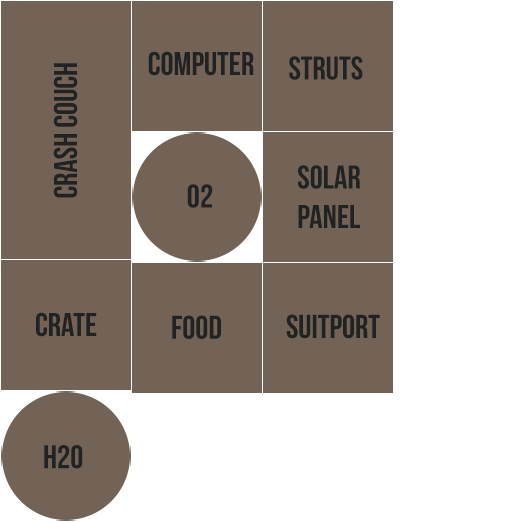
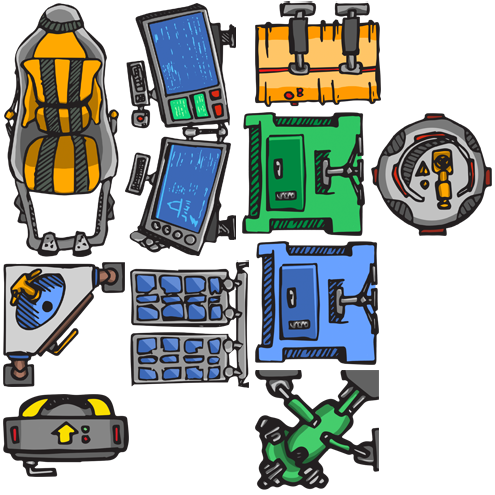
Lander update with new sprites

diff --git a/Classes/Map.cpp b/Classes/Map.cpp
@@ -308,10 +308,10 @@ Map::Map() {
     this->addObject(new MapObject(suitPort, lander_x + 4, lander_y + 7, orientNormal));
     
     // Landing struts
-    this->addObject(new MapObject(landingStrut, lander_x + 1, lander_y + 6, orient270));
-    this->addObject(new MapObject(landingStrut, lander_x + 6, lander_y + 6, orientNormal));
-    this->addObject(new MapObject(landingStrut, lander_x + 1, lander_y + 1, orient180));
-    this->addObject(new MapObject(landingStrut, lander_x + 6, lander_y + 1, orient90));
+    this->addObject(new MapObject(landingStrut, lander_x + 1, lander_y + 6, orient180));
+    this->addObject(new MapObject(landingStrut, lander_x + 6, lander_y + 6, orient270));
+    this->addObject(new MapObject(landingStrut, lander_x + 1, lander_y + 1, orient90));
+    this->addObject(new MapObject(landingStrut, lander_x + 6, lander_y + 1, orientNormal));
     
     // Water and food and oxygen stations
     this->addObject(new MapObject(waterStation, lander_x + 2, lander_y + 6, orientNormal));

diff --git a/Classes/SCGame.cpp b/Classes/SCGame.cpp
@@ -193,12 +193,17 @@ bool SCGame::init()
         }
     }
     
+    // Now we're going to generate the lander object sprites
+    this->generateObjectSprites();
+    
+    // Now generate the astronaut sprites
+    this->generateAstronautSprites();
+    
     // Set up the wall tiles
     for (int x=0; x < MAP_XS * 2; x++) {
         for (int y = 0; y < MAP_YS * 2; y++) {
             
             if (x % 2 != 0 || y % 2 != 0) {
-                
                 
                 Sprite *sprite = Sprite::createWithSpriteFrameName("wall_metal_segment.png");
                 sprite->setPosition((float(x)*32) + 32, (float(y)*32) + 32);
@@ -218,12 +223,6 @@ bool SCGame::init()
             }
         }
     }
-    
-    // Now we're going to generate the lander object sprites
-    this->generateObjectSprites();
-    
-    // Now generate the astronaut sprites
-    this->generateAstronautSprites();
     
     // 2. Now set up the UI Layer
     // --------------------------

diff --git a/Classes/DataStore.cpp b/Classes/DataStore.cpp
@@ -76,7 +76,7 @@ void DataStore::populateData() {
                 
             case landerLiquidTank:
                 design->name = "Liquid Tank";
-                design->baseSpriteName = "h2o.png";
+                design->baseSpriteName = "externaltank.png";
                 break;
                 
             default:
